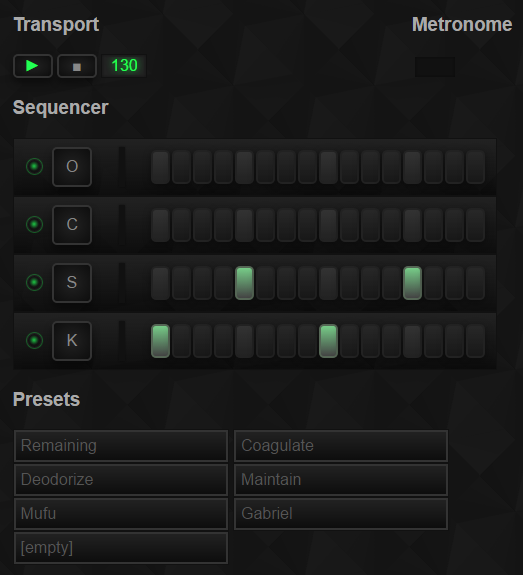
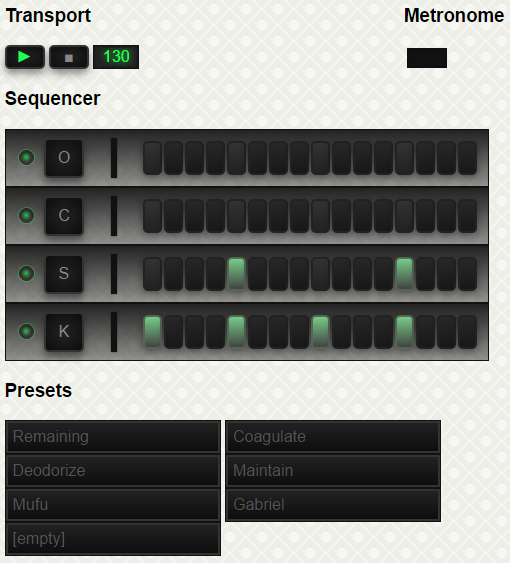
Styling pages with bootstrap

diff --git a/Musicast Web MVC/Content/styleWhite.css b/Musicast Web MVC/Content/styleWhite.css
@@ -4,13 +4,11 @@
   position: relative;
 }
 #app-song {
-    left: 48%;
-  width: 620px;
+  width: 600px;
   height: 600px;
-  position: absolute;
 }
 #all-patterns {
-    left: 100px;
+    left: 110px;
     top: 0px;
   position: absolute;
   width: 550px;
@@ -147,16 +145,10 @@ address {
 .form-group {
 	color: black;
 }
-#chatusers {
-	display: inline-block;
-	position: absolute;
-	right: 20%;
-}
 #chatroom {
 	display: block;
 	overflow: auto;
 	max-height: 450px;
-	width: 75%;
 }
 #header {
 	display: inline-block;
@@ -165,8 +157,8 @@ address {
 	display: block;
 }
 img.introimg {
-	width:40%;
-	height:30%;
+    padding: 10px;
+    max-height: 300px;
 }
 p.message {
 	background: rgba(170, 170, 170, 0.25);
@@ -246,10 +238,11 @@ p.message {
 }
 #roll_keyboard {
     position: relative;
-    width: 996px; 
+    width: 100%; 
     height: 700px;
 }
 #roll {
+    padding: 0px;
     position: relative;
     left: 100px;
     height: 720px;
@@ -286,9 +279,6 @@ p.message {
     position: absolute;
     height: 700px;
 }
-label {
-    color: black;
-}
 #tracks-patterns {
     position: absolute;
     top: 55px;
@@ -317,9 +307,6 @@ label {
 }
 #ifrmDrum {
     position: relative;
-}
-legend {
-    color: black;
 }
 .editor-label {
     padding: 2px;
@@ -415,4 +402,12 @@ button.button_smile {
 
 #message {
     width: 100%;
+}
+
+.innerPanel {
+    margin: 10px;
+}
+
+.buttonMargin {
+    margin-bottom: 10px;
 }

diff --git a/Musicast Web MVC/Scripts/util.js b/Musicast Web MVC/Scripts/util.js
@@ -72,7 +72,7 @@ $(function () {
                 chat.server.connect(name);
             }
             else {
-                alert("Enter name");
+                alert("Register or sign in to use chat");
             }
         });
     });
